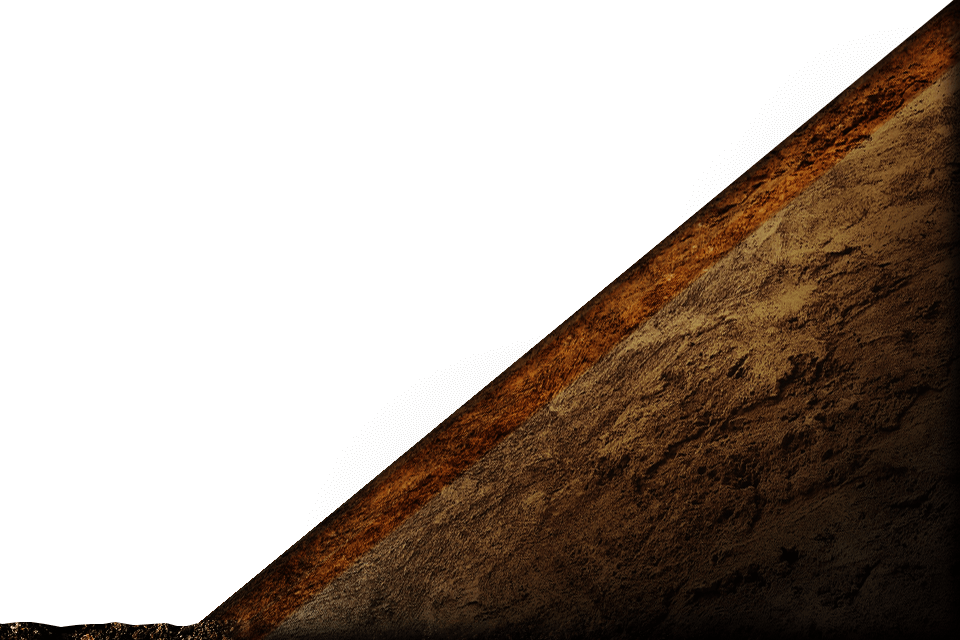
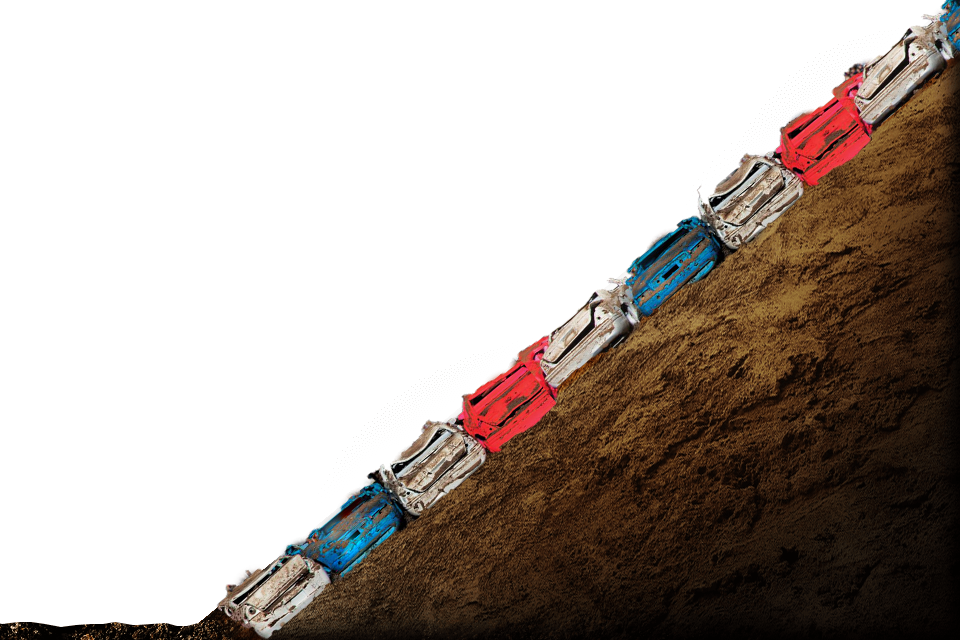
Battle Commit
Completed each battle round individually.

Changed region(s): [[0.2188, 0.0, 1.0, 1.0]]

diff --git a/js/states/Game.js b/js/states/Game.js
@@ -7,6 +7,7 @@ MonsterTruck.GameState = {
         this.enemyRotation = 0;
         this.over = false;
         this.jumping = false;
+        this.disable = false;
         //Adds horn sound
         //MonsterTruck.audio.volume = 0.3;
         var sound = this.add.audio('horn');
@@ -17,43 +18,63 @@ MonsterTruck.GameState = {
         }, this);
         //Get variable values
         this.allData = JSON.parse(this.game.cache.getText('monsterData'));
-        this.startBattleThree();
+        this.startBattleOne();
     },
     startBattleOne: function()
     {
-        this.battleArena = this.add.sprite(0, 0, 'battleArena');
-                    
-        this.battlePlayer = this.add.sprite(250, 250, 'player');
-        this.battleEnemy = this.add.sprite(600, 250, 'enemy1');
-                    
-        this.battlePlayer.anchor.setTo(0.9, 0.5);
-        this.battleEnemy.anchor.setTo(0.9, 0.5);
-                    
+        //Boolean to track whether the climb has begun or not
+        this.start = true;
+        //Hill to climb
+        this.add.image(0, 0, 'hill');
+        this.physics.startSystem(Phaser.Physics.ARCADE);
+        //Truck to climb up
+        this.sprite = this.add.sprite(250, 420, 'player');
+        //this.sprite.animations.add('walk');
+        
+        //this.sprite.animations.play('walk', 5, true);
+        this.sprite.scale.setTo(-0.3, 0.3);
+        
+        this.physics.enable(this.sprite, Phaser.Physics.ARCADE);
+	    this.sprite.body.checkCollision.up = false;
+	    this.sprite.body.checkCollision.down = false;
+        //Instructions
         this.ins = this.add.sprite(0, 0, 'battle1Ins');
-        
-        this.gas = this.add.button(460, 420, 'gas', function()
+        //Gas pedal to 'fuel' the car on it's climb
+        this.gas = this.add.sprite(750, 530, 'gas');
+        this.gas.anchor.setTo(0.5, 0.5);
+        this.gas.inputEnabled = true;
+        this.gas.events.onInputDown.add(function()
         {
-            if(this.ins!=undefined)
-            {
-                this.ins.alpha=0;
-                this.ins=undefined;
-                                
-                this.playerRotation = 0.1;
-                this.enemyRotation = 0.15;
-                this.time.events.repeat(Phaser.Timer.SECOND * 2, 10, function()
-                {
-                    this.enemyRotation+=0.05;
-                }, this);
-            }
-                            
-            this.playerRotation+=0.01;
+            //Remove the instructions
+            this.ins.alpha=0;
+            //Show that pedal is active
+            this.gas.alpha=0.8;
+            this.gas.rotation = -0.2;
+            //Pause the flashing text
+            this.alertTween.pause();
+            this.alert.alpha=0;
+            //Move the car
+            this.sprite.body.velocity.x=217.8;
+            this.sprite.body.velocity.y=-180;
         }, this);
-        
+        this.gas.events.onInputUp.add(function()
+        {
+            //Resume previous pedal and text
+            this.gas.alpha=1;
+            this.gas.rotation = 0;
+            this.alertTween.resume();
+            this.start = false;
+            //Reverse velocity so truck 'falls downhill'
+            this.sprite.body.velocity.x=-242;
+            this.sprite.body.velocity.y=200;
+        }, this);
         //Alert to hit the gas
-        this.alert = this.add.sprite(400, 420, 'alertBattle');
+        this.alert = this.add.sprite(700, 350, 'alertMain');
         this.alert.scale.setTo(0.5, 0.5);
         this.alert.alpha=0;
         this.alertTween = this.add.tween(this.alert).to( { alpha: 1 }, 1000, "Linear", true, 0, -1);
+        //Angle the truck travels on the hill
+        this.sprite.angle=-40;
         this.world.bringToTop(this.ins);
     },
     startBattleTwo: function()
@@ -118,8 +139,9 @@ MonsterTruck.GameState = {
             {
                 this.ins.alpha=0;
                 this.ins=undefined;
-            }   
-            this.battleArena.body.velocity.x+=-10;
+            } 
+            if(!this.disable)
+                this.battleArena.body.velocity.x-=10;
         }, this);
         //Alert to hit the gas
         this.alert = this.add.sprite(400, 420, 'alertBattle');
@@ -134,16 +156,17 @@ MonsterTruck.GameState = {
     },
     update: function()
     {
-        /*this.battlePlayer.rotation += this.playerRotation;
-        this.battleEnemy.rotation += this.enemyRotation;
-        if(this.battlePlayer.rotation > this.battleEnemy.rotation)
+        //Checks that the truck has not hit the top or bottom of the hill and reacts accordingly if so
+        if(!this.start && this.sprite.y >= 420)
         {
-            console.log('player wins');
+            this.sprite.body.velocity.x=0;
+            this.sprite.body.velocity.y=0;
+            this.start = true;
         }
-        else if(this.battleEnemy.rotation > 100)
+        if(this.sprite.x > 900)
         {
-            console.log('player lose');
-        }*/
+            console.log('end');
+        }
         /*if(this.battleArena.x >= -50)
             {
                 console.log('player win');
@@ -154,13 +177,33 @@ MonsterTruck.GameState = {
                 console.log('player lose');
                 this.over = true;
             }*/
-        console.log(this.battleArena.x);
-        if(this.battleArena.x<-990 && !this.jumping)
+        /*if(this.battleArena.x<-900 && this.battleArena.x >-2050 && !this.jumping)
         {
+            this.disable = true;
             this.jumping = true;
-            this.add.tween(this.battlePlayer).to({rotation: -0.5}, 580/this.battleArena.body.velocity.x, "Linear", true);
-            this.add.tween(this.battlePlayer).to({y: 300}, 900/this.battleArena.body.velocity.x, "Linear", true);
+            var rot = this.add.tween(this.battlePlayer).to({angle: -30}, (0.001 * this.battleArena.body.velocity.x), "Linear", true);
+            rot.onComplete.add(function()
+            {
+                this.add.tween(this.battlePlayer).to({x: 300, y: 250}, (3 * this.battleArena.body.velocity.x), "Linear", true);
+            }, this);
         }
+        if(this.battleArena.x < -3500 && this.over)
+        {
+            this.over = false;
+            this.battleArena.body.velocity.x=0;
+            var rotate = this.add.tween(this.battlePlayer).to({angle: 20}, (2 * this.battleArena.body.velocity.x), "Linear", true);
+            rotate.onComplete.add(function()
+            {
+                this.add.tween(this.battlePlayer).to({angle: 0}, (0.2 * this.battleArena.body.velocity.x), "Linear", true);
+            }, this);
+            this.add.tween(this.battlePlayer).to({x: 1000, y: 500}, (2.8 * this.battleArena.body.velocity.x), "Linear", true);
+        }
+        if(this.battleArena.x<-2050 && this.jumping)
+        {
+            this.jumping = false;
+            this.over = true;
+            this.add.tween(this.battlePlayer).to({angle: -10}, (1 * this.battleArena.body.velocity.x), "Linear", true);
+        }*/
     }
 };
 /*Copyright (C) Wayside Co. - All Rights Reserved
